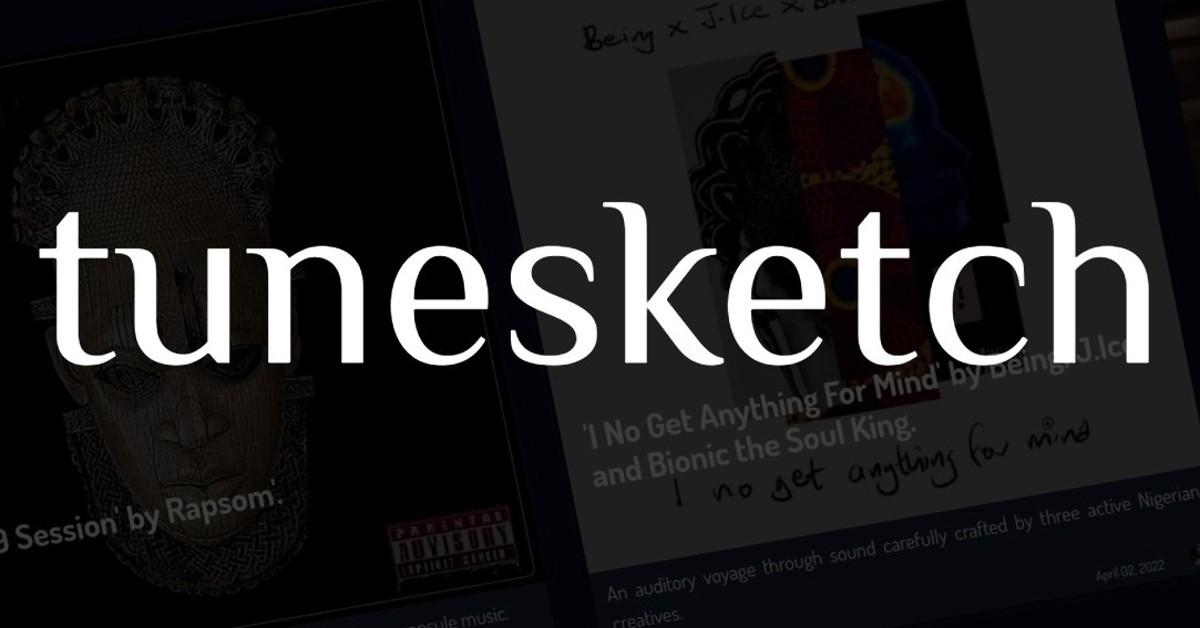
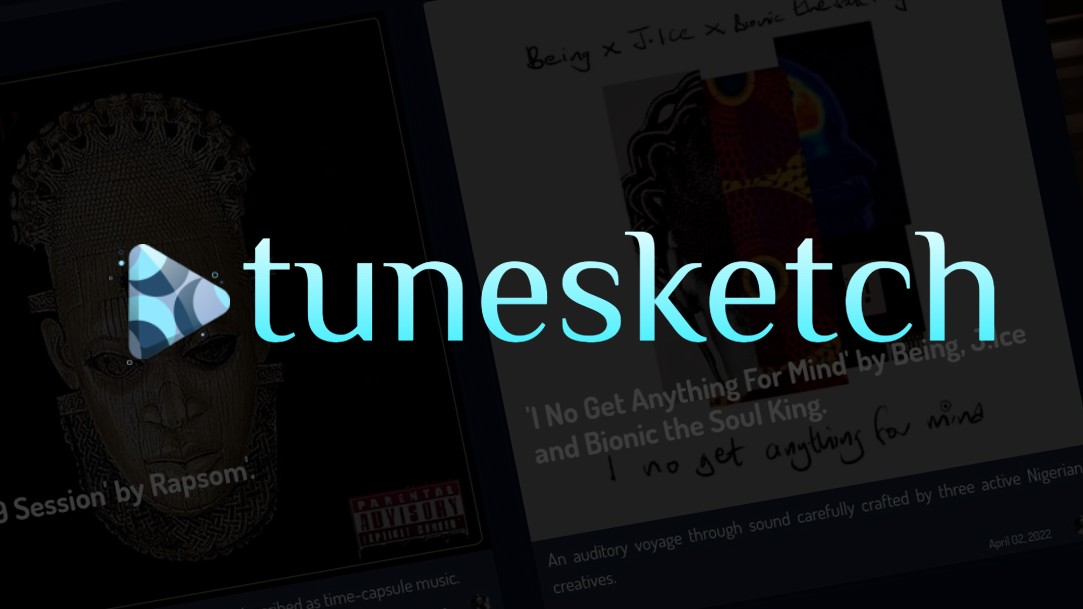
new meta image color

diff --git a/pages/index.js b/pages/index.js
@@ -68,7 +68,7 @@ export async function getServerSideProps() {
     cloud_name: 'dbqn6vejg'
   })
 
-  const cloudinaryUrl = cloudinary.url('tunesketchHomeMeta_lmg96b', {
+  const cloudinaryUrl = cloudinary.url('meta_vbuhwn', {
     width: 1012,
     height: 506,
     /*transformation: [
